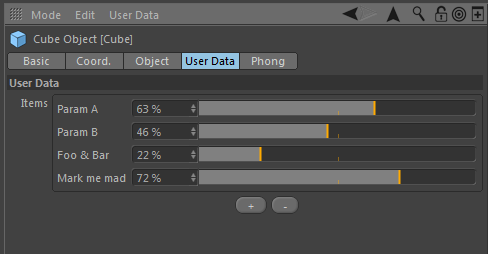
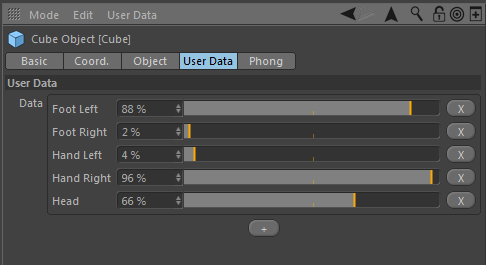
updated Floatlist example, each row has now its own delete button

Changed region(s): [[0.0, 0.0276, 1.0, 1.0], [0.0926, 0.7441, 0.1852, 0.7992]]

diff --git a/src/customgui/floatlist.cpp b/src/customgui/floatlist.cpp
@@ -313,10 +313,19 @@ class FloatlistGui : public iCustomGui {
         GROUP_MAIN = 20000,
         TEXT_MULTIPLE,
         BUTTON_PLUS,
-        BUTTON_MINUS,
 
         // The start ID for the dynamic widgets.
         DYNAMIC_START,
+    };
+
+    /**
+     * Other constants.
+     */
+    enum {
+        DYNAMIC_NAME = 0,
+        DYNAMIC_SLIDER = 1,
+        DYNAMIC_REMOVEBUTTON = 2,
+        DYNAMIC_ITEMS = 3,
 
         // A shorthand for the full scalefit flag.
         HV_SCALEFIT = BFH_SCALEFIT | BFV_SCALEFIT,
@@ -380,7 +389,7 @@ public:
 
         // Flush the dialog and re-create the main group.
         LayoutFlushGroup(0);
-        GroupBegin(GROUP_MAIN, HV_SCALEFIT, (m_multiple ? 1 : 2), 0, "", 0);
+        GroupBegin(GROUP_MAIN, HV_SCALEFIT, (m_multiple ? 1 : 3), 0, "", 0);
         GroupBorderNoTitle(BORDER_ROUND);
         GroupBorderSpace(4, 4, 4, 4);
 
@@ -396,19 +405,18 @@ public:
             Int32 id = DYNAMIC_START;
             for (Int32 index=0; index < m_count; index++) {
                 auto& item = (*data)[index];
-                AddStaticText(id++, BFH_LEFT, 0, 0, item.name, 0);
-                AddEditSlider(id++, BFH_SCALEFIT);
+                AddStaticText(id + DYNAMIC_NAME, BFH_LEFT, 0, 0, item.name, 0);
+                AddEditSlider(id + DYNAMIC_SLIDER, BFH_SCALEFIT);
+                AddButton(id + DYNAMIC_REMOVEBUTTON, 0, 0, 0, "X");
+                id += DYNAMIC_ITEMS;
             }
 
             GroupEnd();
 
             // Add Buttons to add and remove items.
             GroupBegin(0, 0, 0, 1, "", 0);
-            AddButton(BUTTON_PLUS, 0, 0, 0, "+");
-            AddButton(BUTTON_MINUS, 0, 0, 0, "-");
+            AddButton(BUTTON_PLUS, BFH_RIGHT, 0, 0, "+");
             GroupEnd();
-
-            Enable(BUTTON_MINUS, m_count > 0);
         }
 
         LayoutChanged(0);
@@ -430,7 +438,7 @@ public:
             // Calculate the ID of the slider for the current
             // element of the Floatlist and set the value to
             // the dialog.
-            Int32 id = DYNAMIC_START + i * 2 + 1;
+            Int32 id = DYNAMIC_START + i * DYNAMIC_ITEMS + DYNAMIC_SLIDER;
             SetPercent(id, item.value);
         }
 
@@ -485,29 +493,38 @@ public:
                     }
                 }
                 break;
-            case BUTTON_MINUS:
-                if (m_data.GetCount() > 0) {
-                    m_data.Pop();
-                    updateValue = true;
-                }
-                break;
         }
 
-        // Check if the changed parameter is one of the sliders
-        // and update the item in that case.
-        if (id >= DYNAMIC_START && id < DYNAMIC_START + count * 2) {
-            Int32 index = (id - DYNAMIC_START) / 2;
+        // Check if the changed parameter is one of the items of
+        // the dynamic dialog group.
+        if (id >= DYNAMIC_START && id < DYNAMIC_START + count * DYNAMIC_ITEMS) {
+
+            // Then calculate the kind of the item that was pressed
+            // and the index of the row.
+            Int32 kind = (id - DYNAMIC_START) % DYNAMIC_ITEMS;
+            Int32 index = (id - DYNAMIC_START - kind) / DYNAMIC_ITEMS;
+
+            // We only want to do some of the stuff if the accessed row
+            // is not out of the bounds (just to be safe).
             if (index >= 0 && index < count) {
+                // Update the value if the slider was changed.
+                if (kind == DYNAMIC_SLIDER) {
+                    // Get the value of the  slider.
+                    Float value;
+                    GetFloat(id, value);
 
-                // Get the value of the  slider.
-                Float value;
-                GetFloat(id, value);
+                    // Assign it to the item and make sure the parent
+                    // is notified about the changed data.
+                    auto& item = m_data[index];
+                    item.value = value;
+                    updateValue = true;
+                }
 
-                // Assign it to the item and make sure the parent
-                // is notified about the changed data.
-                auto& item = m_data[index];
-                item.value = value;
-                updateValue = true;
+                // Or remove the item if the button was pressed.
+                if (kind == DYNAMIC_REMOVEBUTTON) {
+                    m_data.Erase(index);
+                    updateValue = true;
+                }
             }
         }
 

diff --git a/include/cinema4dsdk/customgui/floatlist.h b/include/cinema4dsdk/customgui/floatlist.h
@@ -82,6 +82,10 @@ public:
         return items.Pop();
     }
 
+    void Erase(Int32 index) {
+        items.Erase(index);
+    }
+
     Int32 GetCount() const {
         return items.GetCount();
     }
